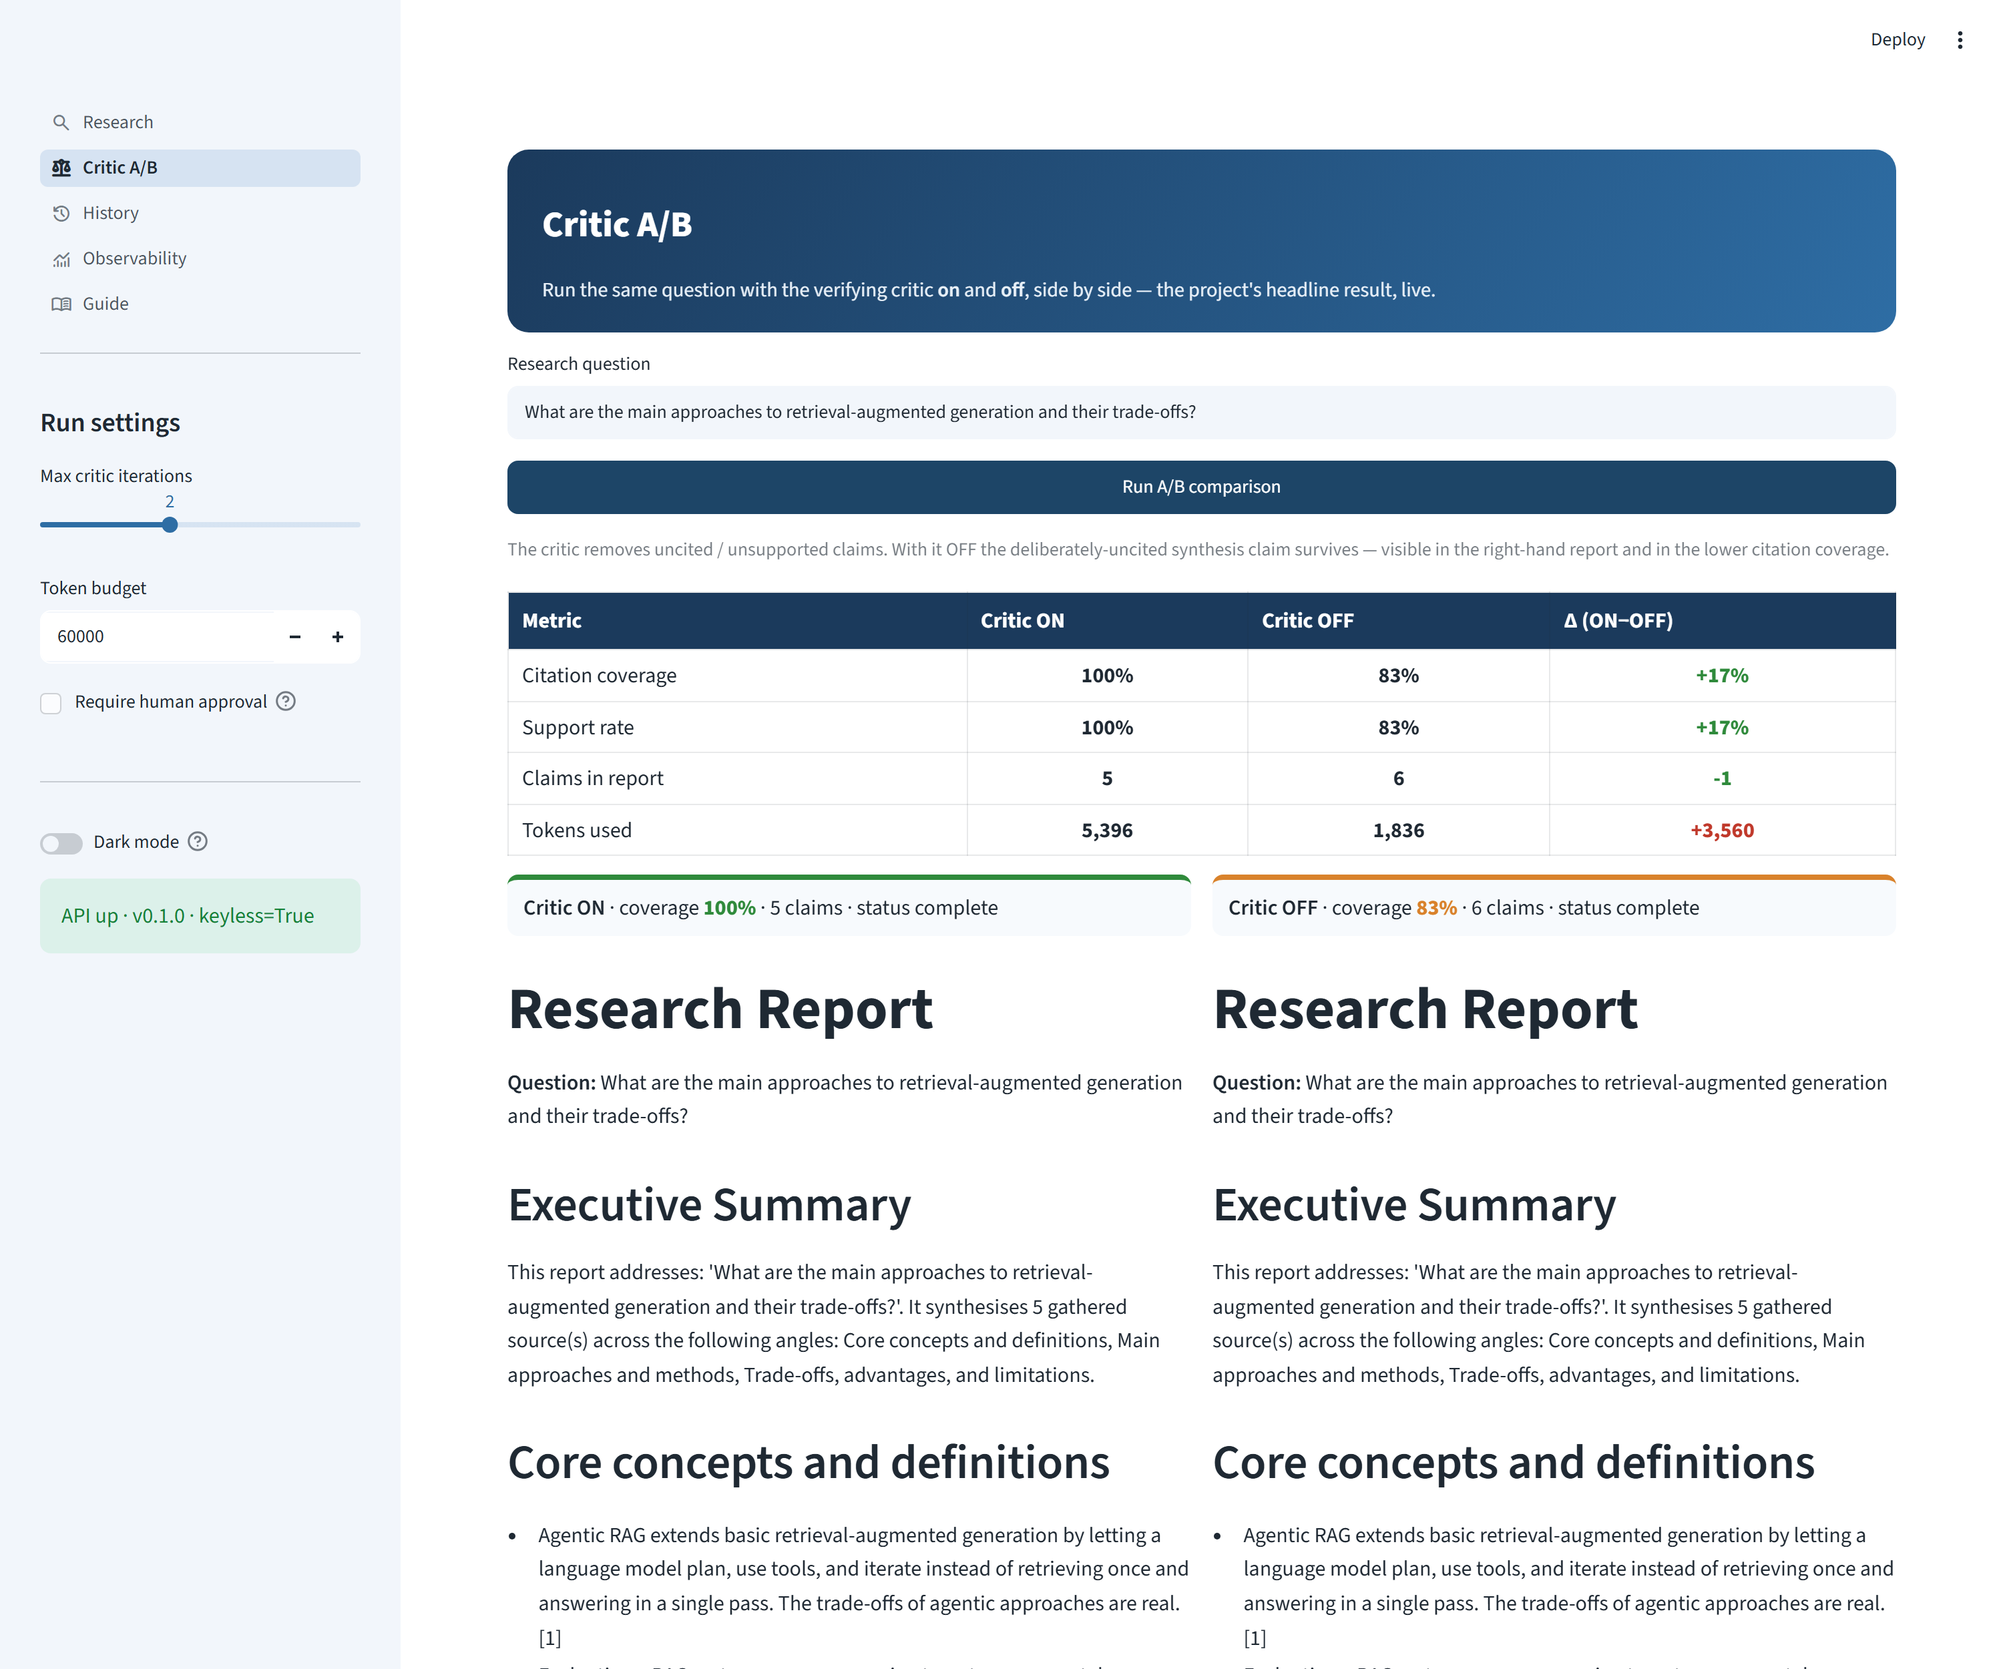
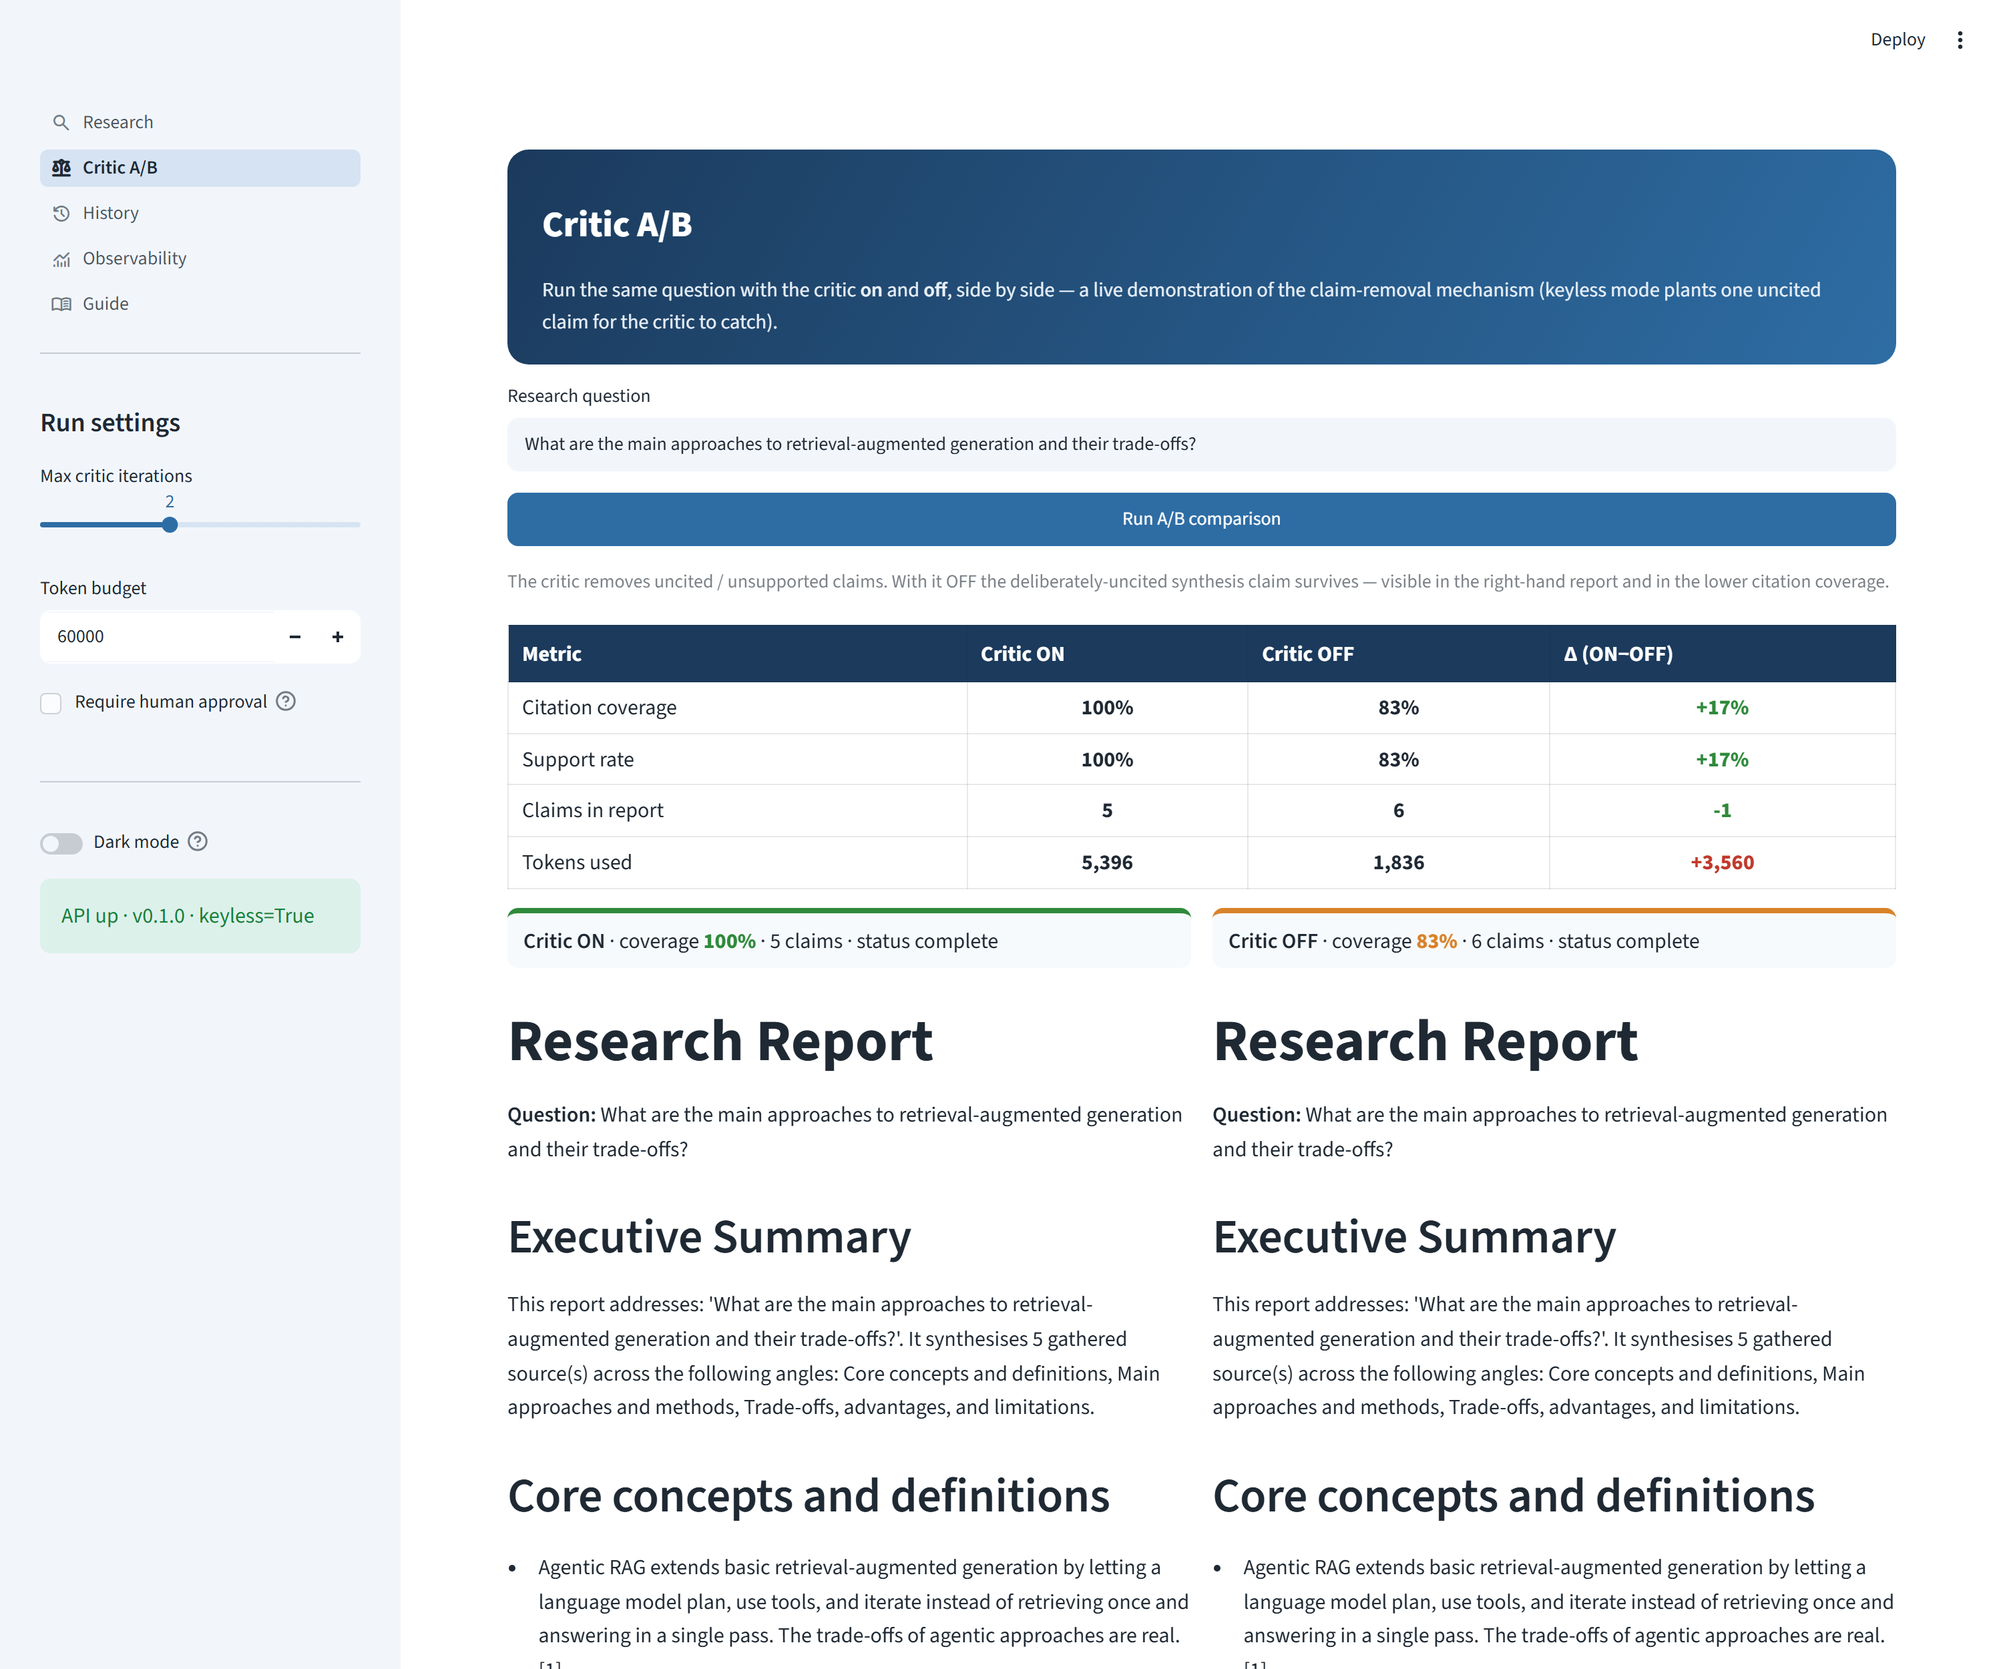
Align UI + README wording with the measured critic A/B
The in-app Guide and Critic A/B page still called the keyless +0.17 "the
headline result" and said the critic "verifies every claim", contradicting the
README caveat and the real-model re-run (+0.004 +/- 0.007). Reword to present
+0.17 as a by-construction demonstration of the removal mechanism, match the
README's own "checks each claim against its cited evidence", and describe
faithfulness as not implemented.

- README: intro, the UI section's Critic A/B bullet, the eval-compare comment.
- Live demo: the Guide (what the app does, step 4, the support_rate and
  faithfulness rows, the A/B section), the Critic A/B hero, the critic toggle
  tooltip and the Research page hint.
- Guide glossary: enforce_citations does not drop "unsupported claims"; it
  drops a claim left with no valid citation (the critic handles support).
- The same critic wording in the MCP server instructions (what a connecting
  model reads) and the package docstring.
- eval/run_eval.py: faithfulness reads "not implemented yet" in the
  docstrings, the report caption and its n/a / not-run strings, instead of
  implying a judge exists.
- docs/screenshots: retake critic-ab.png (embedded in the README) and
  guide.png, which showed the old wording. Same 3000x2500 framing.

Also cap langgraph and streamlit below 2.0 in requirements.txt and
pyproject.toml: the live demo installs the newest releases on every deploy,
so a breaking major version must not slip in unreviewed.
[…]

Changed region(s): [[0.248, 0.156, 0.961, 1.0], [0.868, 0.624, 0.93, 0.6864]]

diff --git a/ui/streamlit_app.py b/ui/streamlit_app.py
@@ -318,7 +318,7 @@ def run_research() -> None:
 
 
 def run_compare() -> None:
-    """Run the same question with the critic ON and OFF — the headline A/B, live."""
+    """Run the same question with the critic ON and OFF — a live demo of the removal mechanism."""
     with st.spinner("Running the critic ON and OFF…"):
         on, err_on = _post_research({**_base_payload(), "enable_critic": True})
         off, err_off = _post_research({**_base_payload(), "enable_critic": False})
@@ -505,8 +505,8 @@ def settings_sidebar(show_critic: bool = True) -> None:
                         step=1_000, key="budget")
         if show_critic:
             st.toggle("Enable verifying critic", value=True, key="critic",
-                      help="The headline agent. OFF = the critic-OFF arm of the A/B: "
-                           "deliberately uncited claims survive, so coverage drops.")
+                      help="OFF = the critic-OFF arm of the A/B: the keyless writer's "
+                           "planted uncited claim survives, so coverage drops.")
         st.checkbox("Require human approval", value=False, key="approval",
                     help="Over the HTTP API there is no interactive approver, so runs "
                          "auto-approve (an approval step still appears in the trace). A "
@@ -708,14 +708,16 @@ def page_research() -> None:
         render_result(ss.result, ss.detail or {})
     else:
         st.info("Enter a question (or pick an example) and click **Run research**. "
-                "To see the critic's impact, open the **Critic A/B** page in the sidebar.")
+                "To see the critic remove a planted uncited claim, open the **Critic A/B** "
+                "page in the sidebar.")
 
 
 def page_compare() -> None:
     settings_sidebar(show_critic=False)
     hero("Critic A/B",
-         "Run the same question with the verifying critic <b>on</b> and <b>off</b>, "
-         "side by side — the project's headline result, live.")
+         "Run the same question with the critic <b>on</b> and <b>off</b>, side by "
+         "side — a live demonstration of the claim-removal mechanism (keyless mode "
+         "plants one uncited claim for the critic to catch).")
     st.text_input("Research question", key="q")
     st.button("Run A/B comparison", type="primary", on_click=run_compare,
               use_container_width=True)
@@ -844,7 +846,8 @@ def page_guide() -> None:
                 "It answers a research question **using only documents it actually "
                 "retrieved**. Instead of guessing, five cooperating agents plan the "
                 "research, gather evidence with tools, draft a report that cites "
-                "**only** what was gathered, and a **critic verifies every claim** — "
+                "**only** what was gathered, and a **critic checks each claim against its "
+                "cited evidence** — "
                 "abstaining honestly when the answer isn't in the corpus. That's "
                 "*agentic Retrieval-Augmented Generation (RAG)*.\n\n"
                 "### Your first question in four steps\n"
@@ -858,7 +861,7 @@ def page_guide() -> None:
                 "they came from.\n"
                 "4. Explore the numbers: **Observability** shows how the system is "
                 "*running* (cost, latency, tokens); the **Evaluation metrics** tab "
-                "here explains how *good* the grounded answers are.\n\n"
+                "here explains what each quality metric measures.\n\n"
                 "### The pages\n"
                 "- **Research** — ask a question and read the cited report (six "
                 "result tabs).\n"
@@ -947,20 +950,24 @@ def page_guide() -> None:
             "| **citation_coverage** | % of claims carrying ≥1 citation | 1.00 |\n"
             "| **source_validity** | % of citations whose id was *actually gathered* "
             "— catches fabrication | 1.00 |\n"
-            "| **support_rate** | % of claims whose cited snippet actually supports "
-            "them (keyword overlap ≥ 0.3) | 1.00 |\n"
+            "| **support_rate** | % of claims whose cited snippet supports them by "
+            "keyword overlap (≥ 0.3) — a lexical proxy, not a semantic check | 1.00 |\n"
             "| **point_coverage** | % of each task's expected key facts present in the "
             "report | 0.90 |\n"
             "| **abstention_accuracy** | out-of-corpus questions must produce zero "
             "claims | 1.00 |\n"
-            "| **faithfulness** | LLM-as-judge; needs a real model, so reported `n/a` "
-            "in keyless mode (never faked) | n/a |\n\n"
-            "### The critic A/B (the headline result)\n"
-            "Running the same tasks with the **critic ON vs OFF** isolates the "
-            "critic's contribution: with it OFF, deliberately-uncited claims survive, "
-            "so **citation coverage and support rate each drop by ~0.17**. Try it live "
-            "on the **Critic A/B** page. `source_validity` stays 1.0 in *both* arms — "
-            "the no-fabrication guarantee is always on, independent of the critic."
+            "| **faithfulness** | LLM-as-judge — **not implemented yet** (only its "
+            "scaffolding exists), so it is never reported as a number | n/a |\n\n"
+            "### The critic A/B — what it shows, and what it doesn't\n"
+            "Running the same tasks with the **critic ON vs OFF** shows the removal "
+            "mechanism working: in keyless mode the fake writer deliberately adds one "
+            "uncited claim, so with the critic OFF it survives and **citation coverage "
+            "and support rate each drop by ~0.17**. That delta is **by construction** — "
+            "it proves the mechanism, not that a critic improves a real model. Re-run "
+            "with a real model (3 repeats), the effect measured **~0** (+0.004 ± 0.007): "
+            "a real writer cites what it says. Try it live on the **Critic A/B** page. "
+            "`source_validity` stays 1.0 in *both* arms — the no-fabrication guarantee "
+            "is always on, independent of the critic."
         )
 
     with t_concepts:
@@ -978,7 +985,8 @@ def page_guide() -> None:
             "| **Critic / reflection loop** | the agent that checks each claim against "
             "its cited evidence and triggers a re-draft |\n"
             "| **The guarantee** | `enforce_citations` strips any citation to an "
-            "ungathered id and drops unsupported claims — fabricated sources are "
+            "ungathered id and drops any claim left with no valid citation — "
+            "fabricated sources are "
             "*structurally impossible* |\n"
             "| **Keyless mode** | deterministic fake LLM/search/fetch; offline, "
             "reproducible, $0.00 (the default) |\n"

diff --git a/eval/run_eval.py b/eval/run_eval.py
@@ -2,10 +2,11 @@
 
 All metrics below are computed on the **keyless** deterministic path, so they
 validate *structure and plumbing* — citation discipline, source validity, the
-critic's effect — not human-judged answer quality. The single metric that
-genuinely needs a real model (``faithfulness``, LLM-as-judge) is import-guarded
-and reported as ``n/a`` unless real mode is configured. We never fabricate
-numbers; everything here is recomputed from real runs.
+critic's effect — not human-judged answer quality. The one metric that would
+need a real model (``faithfulness``, LLM-as-judge) is not implemented yet: only
+its import-guarded scaffold exists, so it is reported as ``n/a`` or ``not-run``,
+never as a number. We never fabricate numbers; everything here is recomputed
+from real runs.
 
 Usage:
     python -m eval.run_eval                         # single mode -> metrics.{json,md}
@@ -116,14 +117,14 @@ def evaluate_single(tasks: list[dict[str, Any]], settings: Settings) -> dict[str
 
 
 def _faithfulness(settings: Settings) -> str:
-    """LLM-as-judge faithfulness — only meaningful in real mode (import-guarded)."""
+    """LLM-as-judge faithfulness — not implemented yet; only this scaffold exists."""
     if settings.llm_provider != "openai":
-        return "n/a (keyless; requires real model + judge)"
+        return "n/a (not implemented yet)"
     try:  # pragma: no cover - real path
         import openai  # noqa: F401
     except Exception:  # pragma: no cover
         return "n/a (openai not installed)"
-    return "not-run (enable a judge to compute)"  # pragma: no cover
+    return "not-run (not implemented yet)"  # pragma: no cover
 
 
 # --- compare (A/B) mode -----------------------------------------------------
@@ -160,7 +161,7 @@ def render_single_md(report: dict[str, Any]) -> str:
     agg = report["aggregate"]
     lines = ["# Evaluation Results (keyless)\n",
              "_All metrics validate structure/plumbing on the deterministic fake "
-             "path. `faithfulness` requires a real model._\n",
+             "path. `faithfulness` (LLM-as-judge) is not implemented yet._\n",
              "## Aggregate\n",
              "| metric | value |", "|---|---|"]
     for k in ["n_tasks", "n_in_corpus", "citation_coverage", "source_validity",

diff --git a/src/agent/mcp_server.py b/src/agent/mcp_server.py
@@ -76,9 +76,9 @@ KEYLESS_OVERRIDES: dict[str, Any] = {
 # means, before it has looked at any individual tool.
 INSTRUCTIONS = """\
 Multi-agent research assistant. Given a question, it plans sub-questions,
-gathers evidence with tools, drafts a report, has a critic verify every claim,
-and returns Markdown in which each claim carries a [n] citation to a source that
-was actually retrieved.
+gathers evidence with tools, drafts a report, has a critic check each claim
+against its cited evidence, and returns Markdown in which each claim carries a
+[n] citation to a source that was actually retrieved.
 
 Citations cannot be fabricated: any citation to a source that was not gathered
 is stripped, and a claim left with none is dropped. An empty or near-empty

diff --git a/src/agent/__init__.py b/src/agent/__init__.py
@@ -1,8 +1,8 @@
 """Agentic Research & Report Assistant.
 
 A multi-agent (LangGraph) pipeline that plans research, gathers evidence with
-tools, drafts a structured report, has a critic verify every claim is supported
-by a cited source, enforces guardrails, and returns a cited report with full
+tools, drafts a structured report, has a critic check each claim against its
+cited evidence, enforces guardrails, and returns a cited report with full
 observability. Runs fully keyless with deterministic fake providers.
 """
 

diff --git a/README.md b/README.md
@@ -12,7 +12,7 @@
 
 > A multi-agent **Research & Report Assistant** orchestrated with **LangGraph**: it
 > plans research, gathers evidence with tools, drafts a structured report, and a
-> **critic verifies every claim against a cited source** — looping back to re-draft
+> **critic checks each claim against its cited evidence** — looping back to re-draft
 > without the rejected claims when a claim is unsupported. It runs **fully keyless**
 > (deterministic fake providers, zero cost)
 > and it is **structurally impossible** for the final report to cite a source that
@@ -101,7 +101,7 @@ pip install -r requirements.txt
 make test                 # deterministic, keyless -> all green
 make lint                 # ruff -> clean
 make eval                 # prints citation_coverage, source_validity, etc.
-make eval-compare         # critic ON vs OFF -> positive delta
+make eval-compare         # critic ON vs OFF -> +0.17 keyless (by construction; see caveat)
 make run Q="What are the trade-offs of different RAG retrieval methods?"
 
 make api                  # FastAPI on http://localhost:8000  (/docs for Swagger)
@@ -221,7 +221,9 @@ Five pages (native `st.navigation`, shared state across pages):
   retrieved), *Step timeline* (a colour-coded per-node trace), *Agent graph*, and
   *Run data*.
 - **Critic A/B** — one click runs the same question with the critic **ON and OFF** and
-  shows the citation-coverage / support delta side by side — the headline result, live.
+  shows the citation-coverage / support delta side by side — a live demonstration of the
+  removal mechanism (keyless +0.17 is by construction; ~0 with a real model —
+  [see the caveat](#critic-ab--and-what-it-does-not-prove)).
 - **History** — a browsable table of past runs; reopen any into all six tabs.
 - **Observability** — the aggregate dashboard (total runs, avg cost, avg/p95 latency,
   avg coverage) fed by `GET /metrics`.
